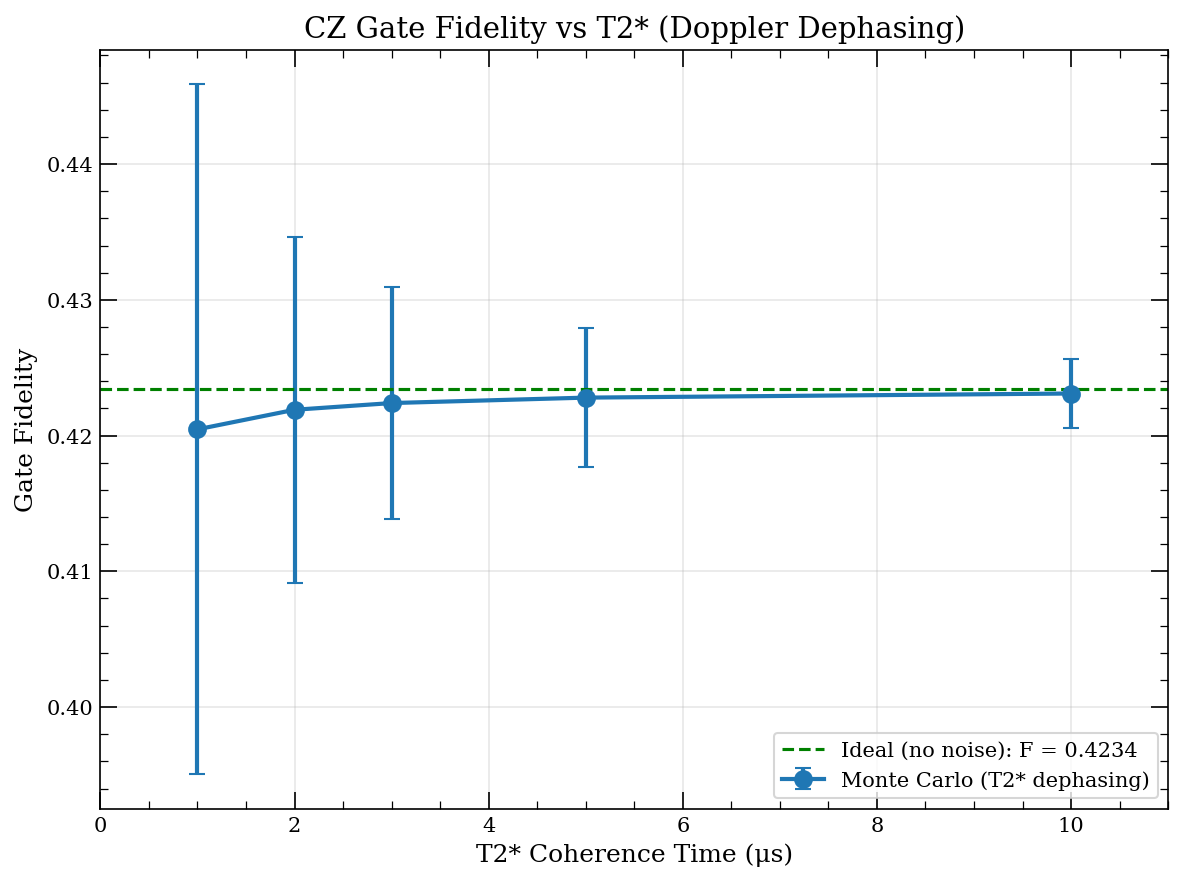
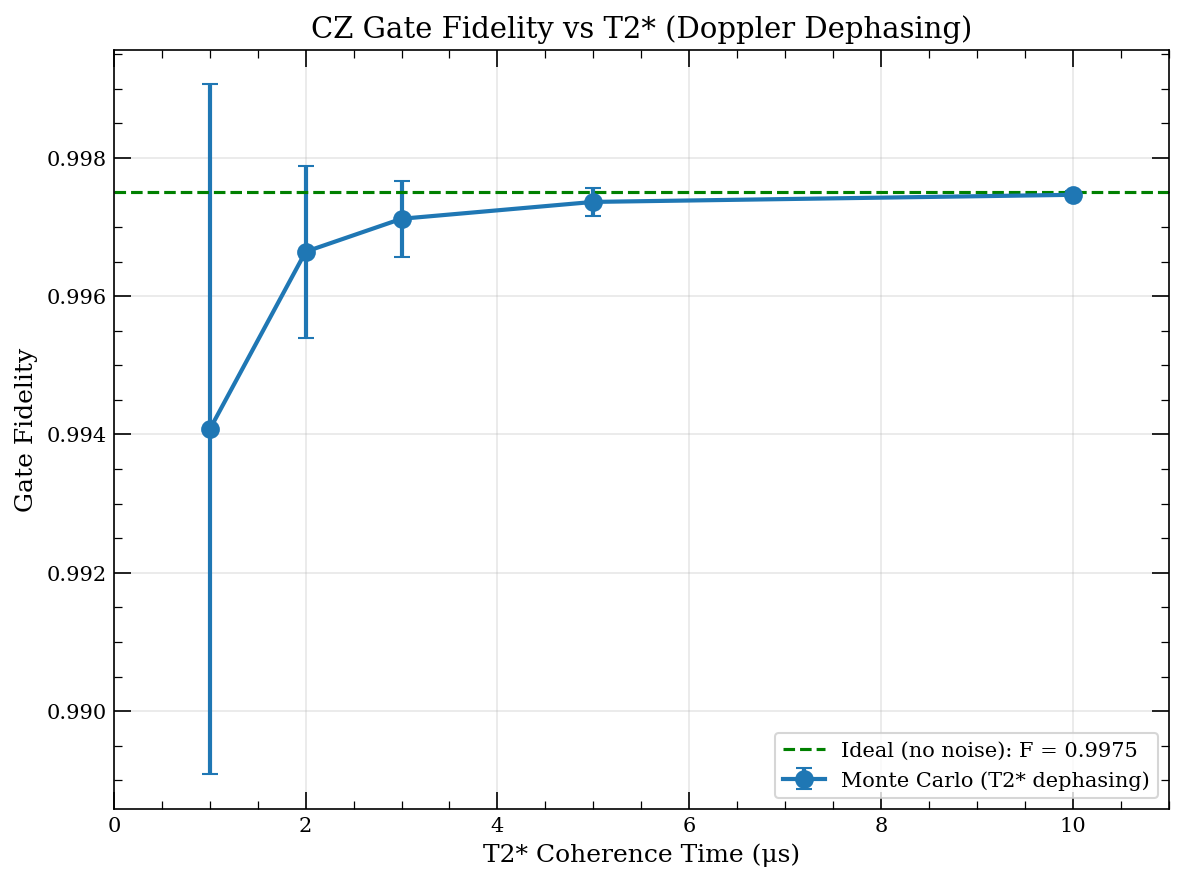
Monte-Carlo

diff --git a/src/ryd_gate/ideal_cz.py b/src/ryd_gate/ideal_cz.py
@@ -180,11 +180,13 @@ class CZGateSimulator:
         param_set: Literal["our", "lukin"] = "our",
         strategy: Literal["TO", "AR"] = "AR",
         blackmanflag: bool = True,
+        detuning_sign: int = 1,
     ) -> None:
         """Initialize the CZ gate simulator with specified parameters."""
         self.param_set = param_set
         self.strategy = strategy
         self.blackmanflag = blackmanflag
+        self.detuning_sign = detuning_sign
 
         if param_set == "our":
             self._init_our_params(decayflag)
@@ -212,10 +214,10 @@ class CZGateSimulator:
         # Rydberg level and laser parameters
         self.ryd_level = 70
         # Assumes rabi_420 = rabi_1013, effective Rabi = 7 MHz
-        self.Delta = 2 * np.pi * 9.1e9  # Intermediate detuning (rad/s)
+        self.Delta = self.detuning_sign * 2 * np.pi * 9.1e9  # Intermediate detuning (rad/s)
         self.rabi_420 = 2*np.pi*(491)*10**(6)
         self.rabi_1013 = 2*np.pi*(185)*10**(6)
-        self.rabi_eff = self.rabi_420*self.rabi_1013/(2*self.Delta) # Effective two-photon Rabi (rad/s)
+        self.rabi_eff = self.rabi_420*self.rabi_1013/(2*abs(self.Delta)) # Effective two-photon Rabi (rad/s)
         self.time_scale = 2 * np.pi / self.rabi_eff
 
         # Dipole matrix element ratios for off-resonant transitions

diff --git a/scripts/verify_monte_carlo.py b/scripts/verify_monte_carlo.py
@@ -285,7 +285,7 @@ def main():
 
     # Initialize simulator
     print("\nInitializing CZGateSimulator...")
-    sim = CZGateSimulator(decayflag=False, param_set='our', strategy='TO')
+    sim = CZGateSimulator(decayflag=False, param_set='our', strategy='TO', blackmanflag=False)
 
     # Check ideal fidelity with optimized parameters
     ideal_infidelity = sim.avg_fidelity(X_TO)
